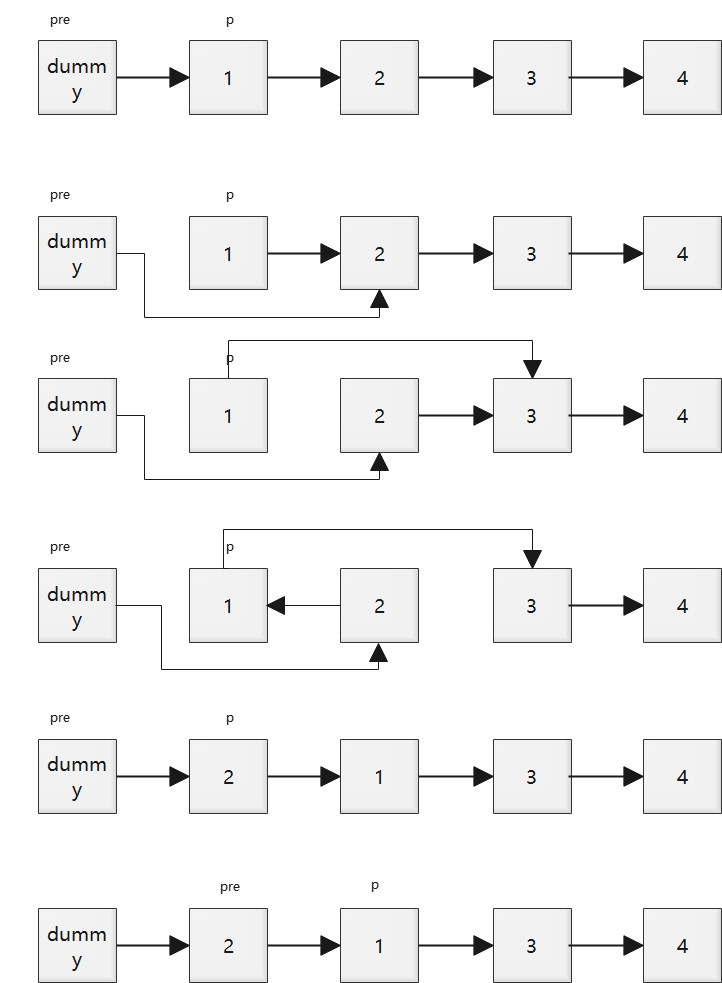
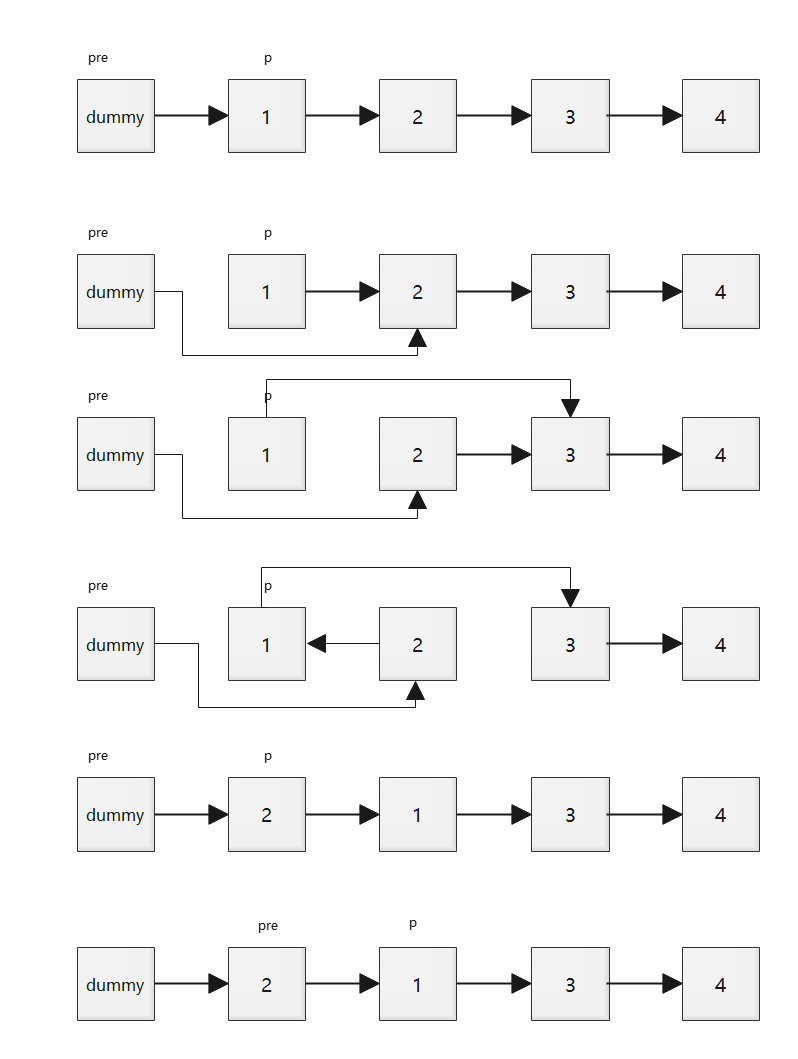
go on add linked_list

diff --git a/leetcode_cn/linked_list.py b/leetcode_cn/linked_list.py
@@ -159,19 +159,21 @@ class Solution:
         loops = length // k
         dummy = ListNode(-1)
         dummy.next = head
-        pre, p = dummy, head
-        start, end = dummy, head
-        for i in range(loops):
+        pre, p = None, head
+        last_end, cur_end = dummy, head
+        for _ in range(loops):
+            pre = None
             for _ in range(k):
                 tmp = p.next
                 p.next = pre
                 pre = p
                 p = tmp
-            start.next = pre
-            end.next = p
-            # start of new loop is end of last loop
-            # end of new loop is start of new loop before reversed, that is p
-            start, end = end, p
+            # after reverse cur part, pre is cur_start, p is next_end
+            # last_end.next = cur_start
+            last_end.next = pre
+            # cur_end.next = next_end
+            cur_end.next = p
+            last_end, cur_end = cur_end, p
         return dummy.next
 
 

diff --git a/markdown_files/leetcode_cn/链表.md b/markdown_files/leetcode_cn/链表.md
@@ -458,6 +458,8 @@ k 是一个正整数，它的值小于或等于链表的长度。
 - 设置dummy节点
 - 关键在于反转前先确认好 上一段的end和本段的start链接，本段的end和下一段的start链接
 
+![avatar](./images/leetcode25.png)
+
 ```python
 class Solution:
     def reverseKGroup(self, head: ListNode, k: int) -> ListNode:
@@ -471,23 +473,58 @@ class Solution:
         loops = length // k
         dummy = ListNode(-1)
         dummy.next = head
-        pre, p = dummy, head
-        start, end = dummy, head
-        for i in range(loops):
+        pre, p = None, head
+        last_end, cur_end = dummy, head
+        for _ in range(loops):
+            pre = None
             for _ in range(k):
                 tmp = p.next
                 p.next = pre
                 pre = p
                 p = tmp
-            start.next = pre
-            end.next = p
-            # start of new loop is end of last loop
-            # end of new loop is start of new loop before reversed, that is p
-            start, end = end, p
+            # after reverse cur part, pre is cur_start, p is next_end
+            # last_end.next = cur_start
+            last_end.next = pre
+            # cur_end.next = next_end
+            cur_end.next = p
+            last_end, cur_end = cur_end, p
         return dummy.next
 ```
 
+## [61. 旋转链表](https://leetcode-cn.com/problems/rotate-list/)
 
+### 题目描述
+
+给你一个链表的头节点 head ，旋转链表，将链表每个节点向右移动 k 个位置。
+
+示例 1：
+
+![img](https://assets.leetcode.com/uploads/2020/11/13/rotate1.jpg)
+
+```
+输入：head = [1,2,3,4,5], k = 2
+输出：[4,5,1,2,3]
+```
+
+示例 2：
+
+![img](https://assets.leetcode.com/uploads/2020/11/13/roate2.jpg)
+
+```
+输入：head = [0,1,2], k = 4
+输出：[2,0,1]
+```
+
+
+提示：
+
+```
+链表中节点的数目在范围 [0, 500] 内
+-100 <= Node.val <= 100
+0 <= k <= 2 * 109
+```
+
+### 解法1
 
 
 
